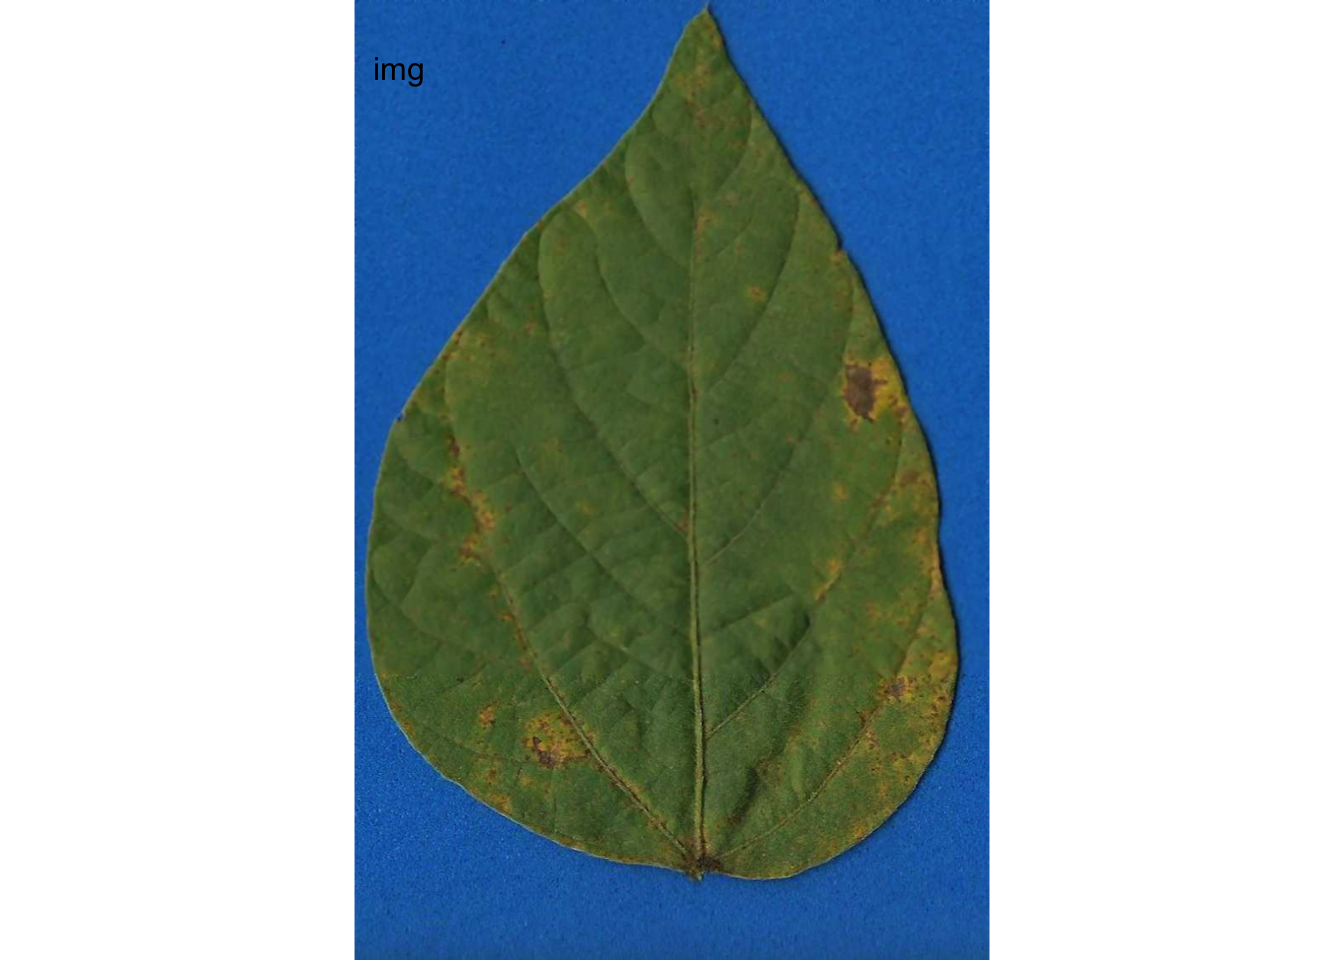
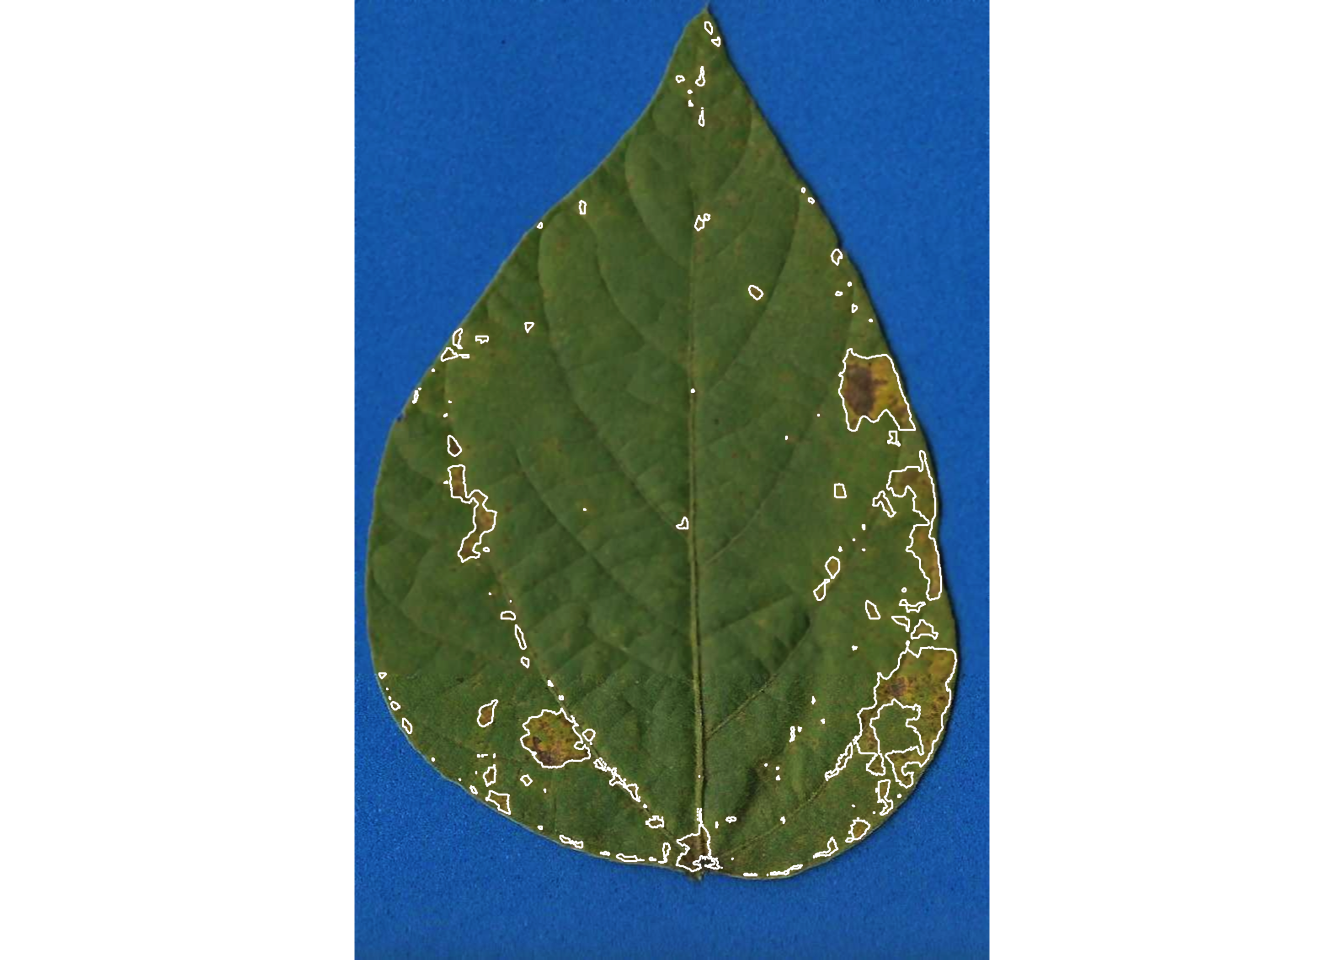
captions for figures

diff --git a/_book/data-actual-severity.html b/_book/data-actual-severity.html
@@ -359,7 +359,7 @@ gtag('config', 'G-5T7SZYQV79', { 'anonymize_ip': true});
 <section id="the-actual-severity" class="level2" data-number="5.1">
 <h2 data-number="5.1" class="anchored" data-anchor-id="the-actual-severity"><span class="header-section-number">5.1</span> The actual severity</h2>
 <p>Among the different ways to express plant disease severity, the percent area affected (symptomatic) by the disease is one of the most common especially when dealing with diseases that affect leaves. To evaluate whether the visual estimates of plant disease severity are sufficiently accurate (as seen in the previous chapter), one needs the actual severity values. These are also needed when preparing standard area diagrams (SADs) which are diagrammatic representations of severity values used as an aid prior or during the visual assessment to standardize and produce more accurate results across different raters <span class="citation" data-cites="delponte2017">(<a href="references.html#ref-delponte2017" role="doc-biblioref">Del Ponte et al. 2017</a>)</span>.</p>
-<p>The actual severity values are usually approximated using image analysis where each pixel of the image is labeled according to three different classes:</p>
+<p>The actual severity values are usually approximated using image analysis where the image is segmented and each pixel of the image is labeled according to three different classes:</p>
 <ol type="1">
 <li>Diseased (or symptomatic)</li>
 <li>Non-diseased (or healthy)</li>
@@ -374,7 +374,12 @@ gtag('config', 'G-5T7SZYQV79', { 'anonymize_ip': true});
 <p>The most critical is the initial step, when the user needs to correctly define the color palettes. In <em>pliman</em> the palettes are actually separate images representing each of three classes named background (b), symptomatic (s) and healthy (h).</p>
 <p>The reference image palettes can be constructed by manually sampling small areas of the image and producing a composite image. Of course, the results may vary depending on how these areas are chosen. A work on the validation of the <em>pliman</em> to determine disease severity showed the effect of different palettes prepared independently by three researchers <span class="citation" data-cites="olivoto2022">(<a href="references.html#ref-olivoto2022" role="doc-biblioref">Olivoto et al. 2022</a>)</span>. The observation of the processed masks during the calibration of the palettes is important to create reference palettes that are most representative of the respective class.</p>
 <p>Here, I cut and pasted several sections of images representative of each class from a few leaves into a Google slide. Once the image palette was ready, I exported each one as a separate image PNG file (JPG also works). These were named: sbr_b.png, sbr_h.png and sbr_s.png. They can be found <a href="https://github.com/emdelponte/epidemiology-R/tree/main/imgs">here in this folder</a> for downloading.</p>
-<p><img src="imgs/pliman1.png" class="img-fluid"></p>
+<div class="quarto-figure quarto-figure-center">
+<figure class="figure">
+<p><a href="Fig_palettes"><img src="imgs/pliman1.png" class="img-fluid figure-img"></a></p>
+<p></p><figcaption class="figure-caption">Preparation of image palettes by manually sampling fraction of the images that represent background, heatlhy leaf and lesions</figcaption><p></p>
+</figure>
+</div>
 <p>Now that we have the image palettes, we can start by importing them into the environment for further analysis. Let’s create an image object for each palette named h (healthy), s (symptoms) and b (background).</p>
 <div class="cell">
 <div class="sourceCode cell-code" id="cb1"><pre class="sourceCode r code-with-copy"><code class="sourceCode r"><span id="cb1-1"><a href="#cb1-1" aria-hidden="true" tabindex="-1"></a><span class="fu">library</span>(pliman)</span>
@@ -386,7 +391,12 @@ gtag('config', 'G-5T7SZYQV79', { 'anonymize_ip': true});
 <div class="cell">
 <div class="sourceCode cell-code" id="cb2"><pre class="sourceCode r code-with-copy"><code class="sourceCode r"><span id="cb2-1"><a href="#cb2-1" aria-hidden="true" tabindex="-1"></a><span class="fu">image_combine</span>(h, s, b, <span class="at">ncol =</span><span class="dv">3</span>)</span></code><button title="Copy to Clipboard" class="code-copy-button"><i class="bi"></i></button></pre></div>
 <div class="cell-output-display">
-<p><img src="data-actual-severity_files/figure-html/unnamed-chunk-4-1.png" class="img-fluid" width="672"></p>
+<div id="fig-palettes" class="quarto-figure quarto-figure-center anchored">
+<figure class="figure">
+<p><img src="data-actual-severity_files/figure-html/fig-palettes-1.png" class="img-fluid figure-img" width="672"></p>
+<p></p><figcaption class="figure-caption">Figure 5.1: Image palettes created to segment images into background, sypomtoms and healthy area of the image</figcaption><p></p>
+</figure>
+</div>
 </div>
 </div>
 </section>
@@ -412,7 +422,12 @@ Tip
 <div class="sourceCode cell-code" id="cb3"><pre class="sourceCode r code-with-copy"><code class="sourceCode r"><span id="cb3-1"><a href="#cb3-1" aria-hidden="true" tabindex="-1"></a>img <span class="ot">&lt;-</span> <span class="fu">image_import</span>(<span class="st">"imgs/originals/img46.png"</span>)</span>
 <span id="cb3-2"><a href="#cb3-2" aria-hidden="true" tabindex="-1"></a><span class="fu">image_combine</span>(img)</span></code><button title="Copy to Clipboard" class="code-copy-button"><i class="bi"></i></button></pre></div>
 <div class="cell-output-display">
-<p><img src="data-actual-severity_files/figure-html/unnamed-chunk-6-1.png" class="img-fluid" width="672"></p>
+<div id="fig-img" class="quarto-figure quarto-figure-center anchored">
+<figure class="figure">
+<p><img src="data-actual-severity_files/figure-html/fig-img-1.png" class="img-fluid figure-img" width="672"></p>
+<p></p><figcaption class="figure-caption">Figure 5.2: Imported image for further analysis</figcaption><p></p>
+</figure>
+</div>
 </div>
 </div>
 <p>Now the fun begins with the <code>measure_disease()</code> function to determine severity. Four arguments are needed when using the reference image palettes, the one representing the target image and each of the three images of the color palettes. As the author of the package says “pliman will take care of all details!”. The severity is the value shown under symptomatic in the output.</p>
@@ -426,7 +441,7 @@ Tip
 <span id="cb4-7"><a href="#cb4-7" aria-hidden="true" tabindex="-1"></a>  <span class="at">show_image =</span> <span class="cn">TRUE</span></span>
 <span id="cb4-8"><a href="#cb4-8" aria-hidden="true" tabindex="-1"></a>)</span></code><button title="Copy to Clipboard" class="code-copy-button"><i class="bi"></i></button></pre></div>
 <div class="cell-output-display">
-<p><img src="data-actual-severity_files/figure-html/unnamed-chunk-8-1.png" class="img-fluid" width="672"></p>
+<p><img src="data-actual-severity_files/figure-html/unnamed-chunk-6-1.png" class="img-fluid" width="672"></p>
 </div>
 <div class="cell-output cell-output-stdout">
 <pre><code>$severity
@@ -470,7 +485,7 @@ attr(,"class")
 <pre><code>Processing image img37 |============                             | 30% 00:00:03 </code></pre>
 </div>
 <div class="cell-output cell-output-stdout">
-<pre><code>Processing image img38 |================                         | 40% 00:00:04 </code></pre>
+<pre><code>Processing image img38 |================                         | 40% 00:00:03 </code></pre>
 </div>
 <div class="cell-output cell-output-stdout">
 <pre><code>Processing image img46 |====================                     | 50% 00:00:04 </code></pre>
@@ -507,9 +522,19 @@ attr(,"class")
 </div>
 </div>
 <p>With the argument <code>save_image</code> set to TRUE, the images are all saved in the folder with the standard prefix “proc.”</p>
-<p><img src="imgs/pliman2.png" class="img-fluid"></p>
+<div class="quarto-figure quarto-figure-center">
+<figure class="figure">
+<p><a href="fig_folder"><img src="imgs/pliman2.png" class="img-fluid figure-img"></a></p>
+<p></p><figcaption class="figure-caption">Images created by pliman and exported to a specific folder</figcaption><p></p>
+</figure>
+</div>
 <p>Let’s have a look at one of the processed images.</p>
-<p><img src="imgs/processed/proc_img46.jpg" class="img-fluid" width="452"></p>
+<div class="quarto-figure quarto-figure-center">
+<figure class="figure">
+<p><a href="fig_proc1"><img src="imgs/processed/proc_img46.jpg" class="img-fluid figure-img" width="452"></a></p>
+<p></p><figcaption class="figure-caption">Figure created by pliman after batch processing to segment the images and calculate percent area covered by symptoms. The symptomatic area is delinated in the image.</figcaption><p></p>
+</figure>
+</div>
 </section>
 </section>
 <section id="how-good-are-these-measurements" class="level2" data-number="5.4">
@@ -547,7 +572,12 @@ attr(,"class")
 <span id="cb22-8"><a href="#cb22-8" aria-hidden="true" tabindex="-1"></a>  <span class="fu">labs</span>(<span class="at">x =</span> <span class="st">"Quant"</span>,</span>
 <span id="cb22-9"><a href="#cb22-9" aria-hidden="true" tabindex="-1"></a>       <span class="at">y =</span> <span class="st">"pliman"</span>)</span></code><button title="Copy to Clipboard" class="code-copy-button"><i class="bi"></i></button></pre></div>
 <div class="cell-output-display">
-<p><img src="data-actual-severity_files/figure-html/unnamed-chunk-14-1.png" class="img-fluid" width="672"></p>
+<div id="fig-scatter" class="quarto-figure quarto-figure-center anchored">
+<figure class="figure">
+<p><img src="data-actual-severity_files/figure-html/fig-scatter-1.png" class="img-fluid figure-img" width="672"></p>
+<p></p><figcaption class="figure-caption">Figure 5.3: Scatter plot for the relationship between severity values measured by pliman and Quant software</figcaption><p></p>
+</figure>
+</div>
 </div>
 </div>
 <p>The concordance correlation coefficient is a test for agreement between two observers or two methods (see previous chapter). It is an indication of how accurate the <em>pliman</em> measures are compared with a standard. The coefficient is greater than 0.99 (1.0 is perfect concordance), suggesting an excellent agreement!</p>
